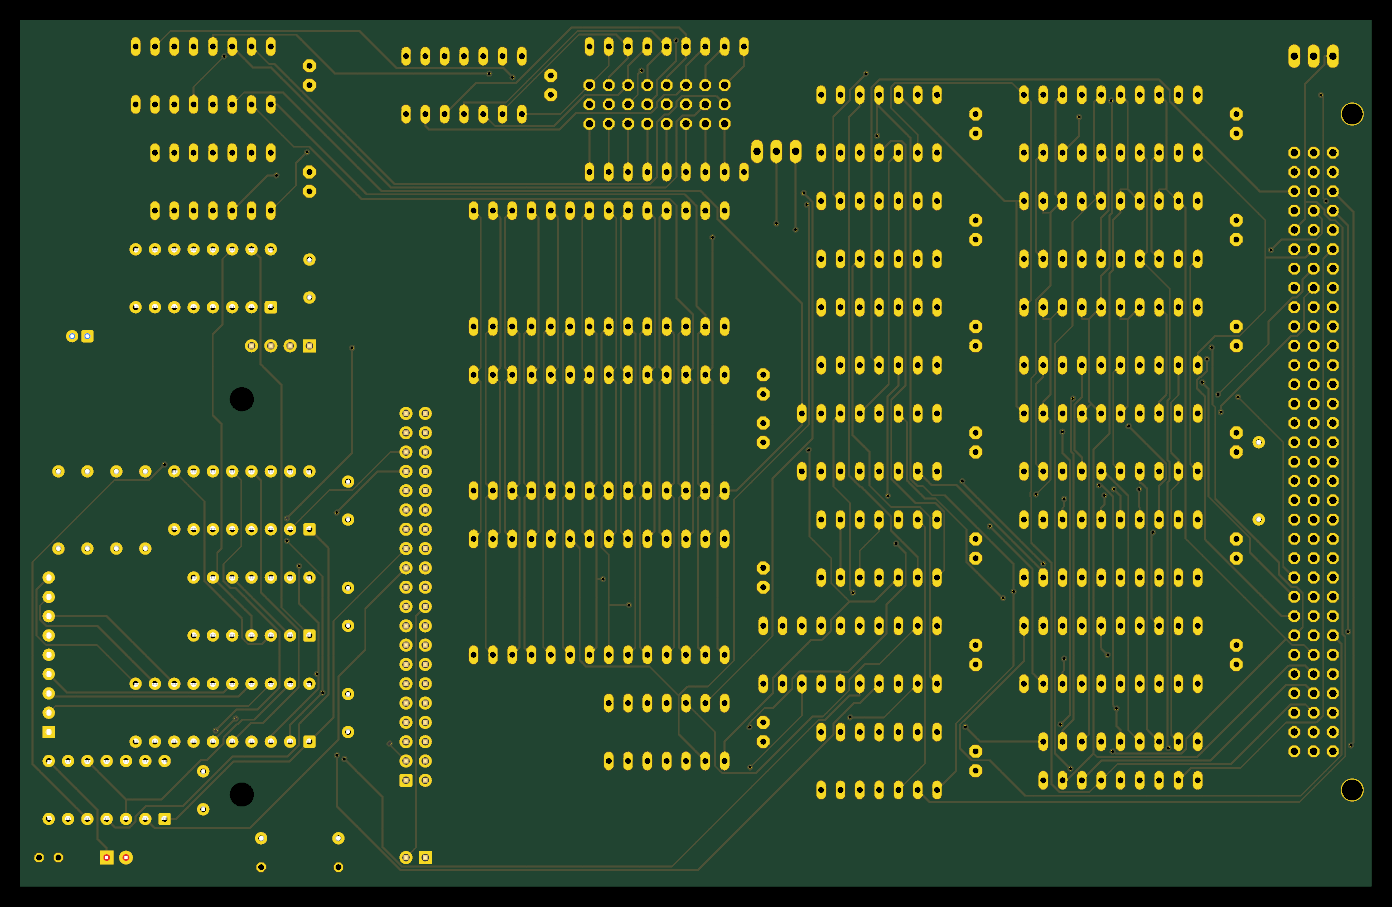
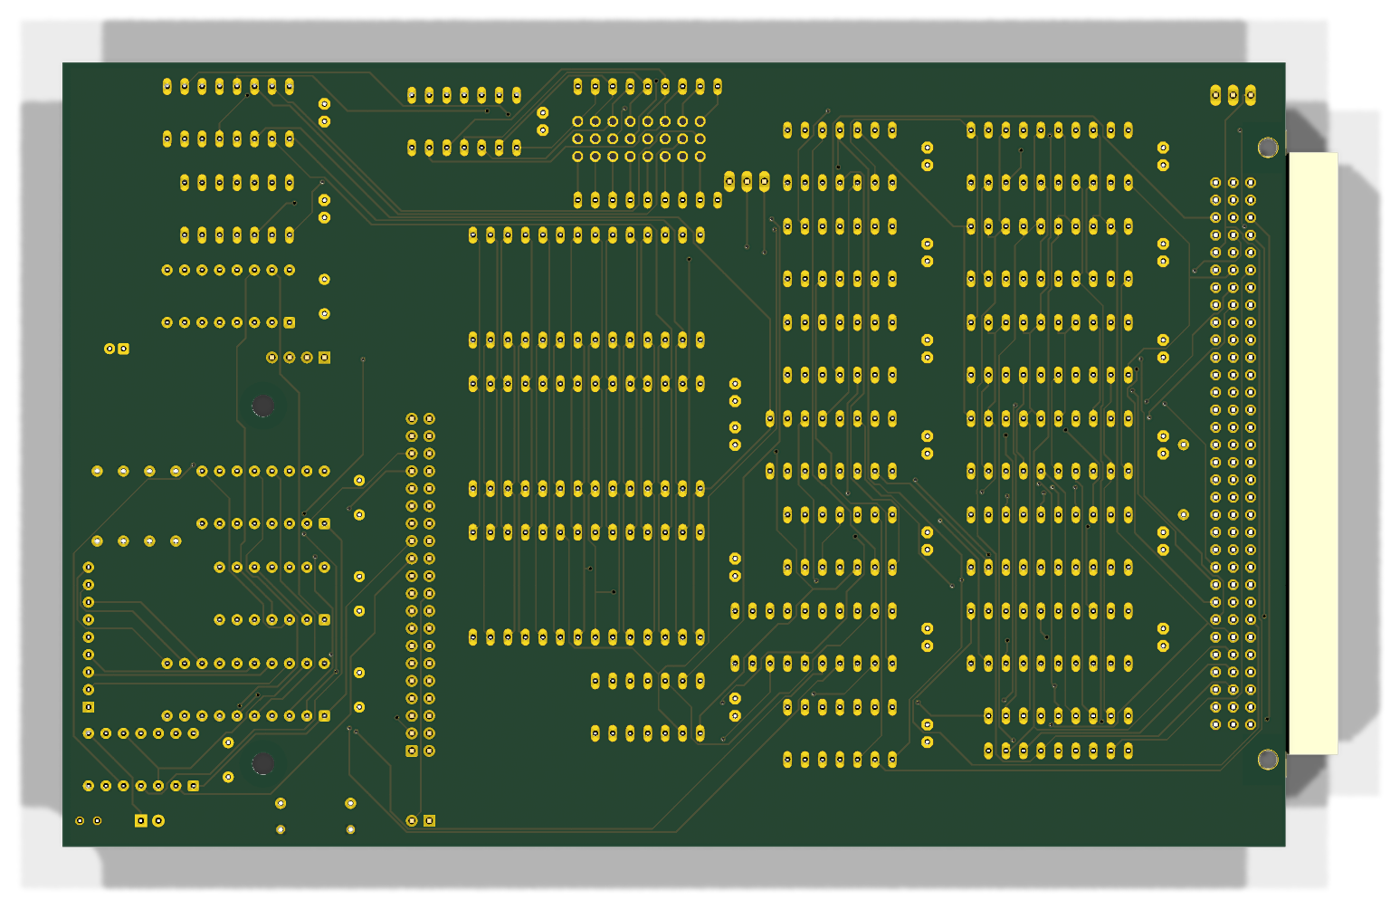
feat(tools): render_populated.py - populated KiCad renders of video v1.1 and memory v2.0
Every Eagle-converted part gets KiCad's standard 3D model in a copy of
the board (the KiCad masters are not changed); high-quality top, bottom
and three-quarter renders replace the bare-pad pictures on the card
pages, and the three-quarter views go on the home page.

diff --git a/tools/render_populated.py b/tools/render_populated.py
@@ -1,0 +1,135 @@
+# Author: Claude (Anthropic) for Ken Rother's YACC1 project, 2026
+
+"""Render a KiCad board fully populated, for pictures: copy the .kicad_pcb to a temporary file, attach KiCad's standard
+3D model to every footprint that has none (the Eagle-converted parts), and render that copy with kicad-cli.
+The board file itself is never changed.
+
+    python3 tools/render_populated.py BOARD.kicad_pcb OUT_PREFIX [--check]
+
+writes OUT_PREFIX-top.png (flat, from above), OUT_PREFIX-bottom.png and OUT_PREFIX-angled.png (a three-quarter view),
+all with KiCad's high-quality renderer. --check only lists what each footprint gets.
+
+Each rule names the standard model and two of its pads: the model is placed so its first pad sits on the footprint's
+pad of that name, and turned (in 90-degree steps) so the line to the second pad points the same way as on the board.
+"""
+import math, os, re, subprocess, sys
+
+CLI = "/Applications/KiCad/KiCad.app/Contents/MacOS/kicad-cli"
+M = "${KICAD10_3DMODEL_DIR}/"
+
+# Eagle footprint name -> (model, origin pad, second pad, where the second pad is in the model's own footprint)
+RULES = {
+    "C025-050X050": ("Capacitor_THT.3dshapes/C_Disc_D5.0mm_W2.5mm_P2.50mm.step", "1", "2", (2.5, 0)),
+    "C025-025X050": ("Capacitor_THT.3dshapes/C_Disc_D3.0mm_W2.0mm_P2.50mm.step", "1", "2", (2.5, 0)),
+    "0207_7": ("Resistor_THT.3dshapes/R_Axial_DIN0207_L6.3mm_D2.5mm_P7.62mm_Horizontal.step", "1", "2", (7.62, 0)),
+    "0207_10": ("Resistor_THT.3dshapes/R_Axial_DIN0207_L6.3mm_D2.5mm_P10.16mm_Horizontal.step", "1", "2", (10.16, 0)),
+    "E2,5-7": ("Capacitor_THT.3dshapes/CP_Radial_D6.3mm_P2.50mm.step", "+", "-", (2.5, 0)),
+    "LED5MM": ("LED_THT.3dshapes/LED_D5.0mm.step", "K", "A", (2.54, 0)),
+    "HC49U-V": ("Crystal.3dshapes/Crystal_HC49-4H_Vertical.step", "1", "2", (4.88, 0)),
+    "MA03-1": ("Connector_PinHeader_2.54mm.3dshapes/PinHeader_1x03_P2.54mm_Vertical.step", "1", "2", (0, 2.54)),
+    "1X03": ("Connector_PinHeader_2.54mm.3dshapes/PinHeader_1x03_P2.54mm_Vertical.step", "1", "2", (0, 2.54)),
+    "MA04-2": ("Connector_PinHeader_2.54mm.3dshapes/PinHeader_2x04_P2.54mm_Vertical.step", "1", "3", (0, 2.54)),
+    "2X07": ("Connector_PinHeader_2.54mm.3dshapes/PinHeader_2x07_P2.54mm_Vertical.step", "1", "3", (0, 2.54)),
+    "RN-5": ("Resistor_THT.3dshapes/R_Array_SIP5.step", "1", "2", (2.54, 0)),
+    "RN-9": ("Resistor_THT.3dshapes/R_Array_SIP9.step", "1", "2", (2.54, 0)),
+    "SIL9": ("Resistor_THT.3dshapes/R_Array_SIP9.step", "1", "2", (2.54, 0)),
+    "FABC96R": ("Connector_DIN.3dshapes/DIN41612_C_3x32_Male_Horizontal_THT.step", "A1", "A2", (2.54, 0)),
+    "F09HP": ("Connector_Dsub.3dshapes/DSUB-9_Socket_Horizontal_P2.77x2.54mm_EdgePinOffset9.40mm.step",
+              "1", "2", (-2.77, 0)),
+}
+
+
+def footprints(text):
+    """(start, end) of every top-level (footprint ...) block."""
+    out, i = [], 0
+    while True:
+        i = text.find("\n\t(footprint ", i)
+        if i < 0:
+            return out
+        depth, j = 0, i + 2
+        while True:
+            c = text[j]
+            if c == "(":
+                depth += 1
+            elif c == ")":
+                depth -= 1
+                if depth == 0:
+                    break
+            elif c == '"':
+                j = text.index('"', j + 1)
+            j += 1
+        out.append((i + 1, j + 1))
+        i = j
+
+
+def rule_for(name, pads):
+    base = name.split(":")[-1]
+    if base in RULES:
+        return RULES[base]
+    m = re.match(r"DIL(\d+)", base)
+    if m and "1" in pads and "2" in pads:
+        n = int(m.group(1))
+        p1, pn = pads["1"], pads.get(str(n))
+        w = 15.24 if pn and abs(math.dist(p1, pn) - 15.24) < abs(math.dist(p1, pn) - 7.62) else 7.62
+        return ("Package_DIP.3dshapes/DIP-%d_W%.2fmm.step" % (n, w), "1", "2", (0, 2.54))
+    return None
+
+
+def model_block(model, offset, rot):
+    return ('\t\t(model "%s%s"\n\t\t\t(offset\n\t\t\t\t(xyz %.4f %.4f 0)\n\t\t\t)\n\t\t\t(scale\n\t\t\t\t(xyz 1 1 1)\n'
+            '\t\t\t)\n\t\t\t(rotate\n\t\t\t\t(xyz 0 0 %d)\n\t\t\t)\n\t\t)\n' % (M, model, offset[0], offset[1], rot))
+
+
+def populate(text, report):
+    pieces, last = [], 0
+    for a, b in footprints(text):
+        block = text[a:b]
+        name = block.split('"')[1]
+        ref = re.search(r'\(property "Reference" "([^"]*)"', block)
+        ref = ref.group(1) if ref else "?"
+        if "(model " in block:
+            report.append("%-6s %-40s has a model" % (ref, name)); continue
+        pads = {}
+        for m in re.finditer(r'\(pad "([^"]*)"[^(]*\(at ([-\d.]+) ([-\d.]+)', block):
+            pads.setdefault(m.group(1), (float(m.group(2)), float(m.group(3))))
+        rule = rule_for(name, pads)
+        if not rule or rule[1] not in pads or rule[2] not in pads:
+            report.append("%-6s %-40s no model (left bare)" % (ref, name)); continue
+        model, pa, pb, std = rule
+        (ax, ay), (bx, by) = pads[pa], pads[pb]
+        # angles with y up (board files have y down)
+        ang = math.degrees(math.atan2(-(by - ay), bx - ax) - math.atan2(-std[1], std[0]))
+        rot = -int(round(ang / 90.0)) * 90 % 360   # KiCad turns models clockwise for a positive angle
+        pieces += [text[last:b - 1], model_block(model, (ax, -ay), rot), "\t"]
+        last = b - 1
+        report.append("%-6s %-40s %s, rotate %d" % (ref, name, model.split("/")[-1], rot))
+    pieces.append(text[last:])
+    return "".join(pieces)
+
+
+def main():
+    board, prefix = sys.argv[1], sys.argv[2]
+    report = []
+    text = populate(open(board, encoding="utf-8").read(), report)
+    print("\n".join(report))
+    if "--check" in sys.argv:
+        return
+    if True:
+        # the copy sits beside the original (same project, libraries and variables)
+        pcb = os.path.join(os.path.dirname(os.path.abspath(board)), ".render-populated.kicad_pcb")
+        open(pcb, "w", encoding="utf-8").write(text)
+        try:
+            views = {"top": ["--side", "top"], "bottom": ["--side", "bottom"],
+                     "angled": ["--side", "top", "--perspective", "--rotate", "-40,0,20", "--zoom", "0.9", "--floor"]}
+            for view, args in views.items():
+                out = "%s-%s.png" % (prefix, view)
+                subprocess.run([CLI, "pcb", "render", "--quality", "high", "--width", "2000", "--height", "1400",
+                                "--background", "opaque" if view == "angled" else "transparent"] + args +
+                               ["-o", out, pcb], check=True, capture_output=True)
+                print("wrote", out)
+        finally:
+            os.remove(pcb)
+
+
+if __name__ == "__main__":
+    main()

diff --git a/tools/README.md b/tools/README.md
@@ -12,6 +12,12 @@ the PDF generators, and the KiCad conversion:
   the worst offenders per sheet (`--summary`, `--detail N`, `--pairs N`, `--json`; `--calibrate SVG` checks its text
   boxes against a `kicad-cli sch export svg` render). `eagle_to_kicad_all.py` puts its counts in each README and in
   `hardware/KICAD.md`.
+- `render_populated.py` — pictures of a board as if built (2026-10-11): copies a `.kicad_pcb`, gives every footprint
+  without a 3D model (the Eagle-converted parts) KiCad's standard model - DIP chips by pin count and row width,
+  resistors, caps, LED, crystal, pin headers, SIP networks, the DIN 41612 bus connector, the DB9 - placed on its pad 1
+  and turned to match the pads, and renders top, bottom and a three-quarter view with `kicad-cli pcb render --quality
+  high`. The board file is never changed. Chips are plain (KiCad draws no markings). Used for the video v1.1 and memory
+  v2.0 pictures in `docs/cards/images/`.
 - `verify_fab_vs_brd.py` — proves an Eagle `.brd` is the design a fab house received: every hole against the Excellon
   drill file, every Top/Bottom track against the copper gerbers, inner-layer planes, part list and pick-and-place,
   optionally byte-compares two gerber sets. Takes a gerber zip or a whole order archive (nested zips are searched).

diff --git a/docs/cards/video.md b/docs/cards/video.md
@@ -234,8 +234,11 @@ If it misbehaves:
 | V1.0 | designed in Fusion 360, export 2026-09-18 | **built, in the machine** without CRTC | drawn on Blank V3.1; the board file was exported under the template's name and stored as `Video_1.0.brd`; no fab files in the tree (`hardware/FABRICATED.md`: "none in tree") |
 | v1.1 | KiCad master since 2026-09-21 | design only | `+5V` folded into `VCC` with a joining track (proof 116/116, DRC clean). To do before ordering: RS from A0 to A1, pull-ups on the 7416 outputs (BACKLOG) |
 
-The v1.1 board as KiCad renders it (`hardware/cards/video/kicad/v1.1/video-v1.1.kicad_pcb`, rendered 2026-10-11;
-the board has no 3D part models, so the ICs show as bare pads):
+The v1.1 board as KiCad renders it, populated (`hardware/cards/video/kicad/v1.1/video-v1.1.kicad_pcb`, rendered
+2026-10-11 by `tools/render_populated.py`, which gives each Eagle-converted part KiCad's standard 3D model in a copy of
+the board: plain chips without markings; the RCA jack has no model and shows as its pads):
+
+[![Video card v1.1, populated](images/video-v1.1-render-angled.png)](images/video-v1.1-render-angled.png "Open full size")
 
 [![Video card v1.1, top](images/video-v1.1-render-top.png)](images/video-v1.1-render-top.png "Open full size")
 

diff --git a/docs/cards/memory.md b/docs/cards/memory.md
@@ -391,8 +391,12 @@ jumper** (M2, 2026-09-29), was added beside the ROM, and **R15, the 470 Ω ADDR1
 2026-09-30, section 4.1) beside the bus connector: 72 parts. Open before ordering (its README): the ribbon plug's pin 20 (open, or pull J2's pin 20). The adapter's power-pad
 order was resolved 2026-09-26: a floppy pinout in J3's order, so the J3 cable is straight through (a hand-made harness).
 
-The v2.0 board as KiCad renders it (`hardware/cards/memory/kicad/v2.0/memory-v2.0.kicad_pcb`, rendered 2026-10-11),
-with the CF section and the adapter's standoff outline at the right:
+The v2.0 board as KiCad renders it, populated (`hardware/cards/memory/kicad/v2.0/memory-v2.0.kicad_pcb`, rendered
+2026-10-11 by `tools/render_populated.py`, which gives each Eagle-converted part KiCad's standard 3D model in a copy of
+the board: plain chips without markings; the U$1 3x8 jumper block has no model), with the CF section and the adapter's
+standoff outline at the right (the adapter itself is not drawn):
+
+[![Memory card v2.0, populated](images/memory-v2.0-render-angled.png)](images/memory-v2.0-render-angled.png "Open full size")
 
 [![Memory card v2.0, top](images/memory-v2.0-render-top.png)](images/memory-v2.0-render-top.png "Open full size")
 

diff --git a/website/home.md b/website/home.md
@@ -71,19 +71,19 @@ coding and documentation.
     **[Memory](docs/cards/memory.md)** — RAM, the ROM and the boot logic (V1.2 shown; V1.3 is in the machine,
     and V2.0 adds a disk).
 
--   ![Memory card v2.0, KiCad render](docs/cards/images/memory-v2.0-render-top.png)
+-   ![Memory card v2.0, KiCad render](docs/cards/images/memory-v2.0-render-angled.png)
 
     **[Memory v2.0](docs/cards/memory.md)** — the next memory card, with the CompactFlash disk interface on board
-    (KiCad render; designed, not yet ordered).
+    (KiCad render, populated; designed, not yet ordered).
 
 -   ![I/O card](media/io-v1.1-top.jpg)
 
     **[I/O](docs/cards/io.md)** — the serial console, switches, LEDs, hex displays and an LCD.
 
--   ![Video card v1.1, KiCad render](docs/cards/images/video-v1.1-render-top.png)
+-   ![Video card v1.1, KiCad render](docs/cards/images/video-v1.1-render-angled.png)
 
-    **[Video](docs/cards/video.md)** — an MC6845 alphanumeric display (KiCad render of v1.1; the built V1.0 is in
-    bring-up).
+    **[Video](docs/cards/video.md)** — an MC6845 alphanumeric display (KiCad render of v1.1, populated; the built V1.0
+    is in bring-up).
 
 -   ![Bus tester](media/test-board-v1.1-top.jpg)
 
